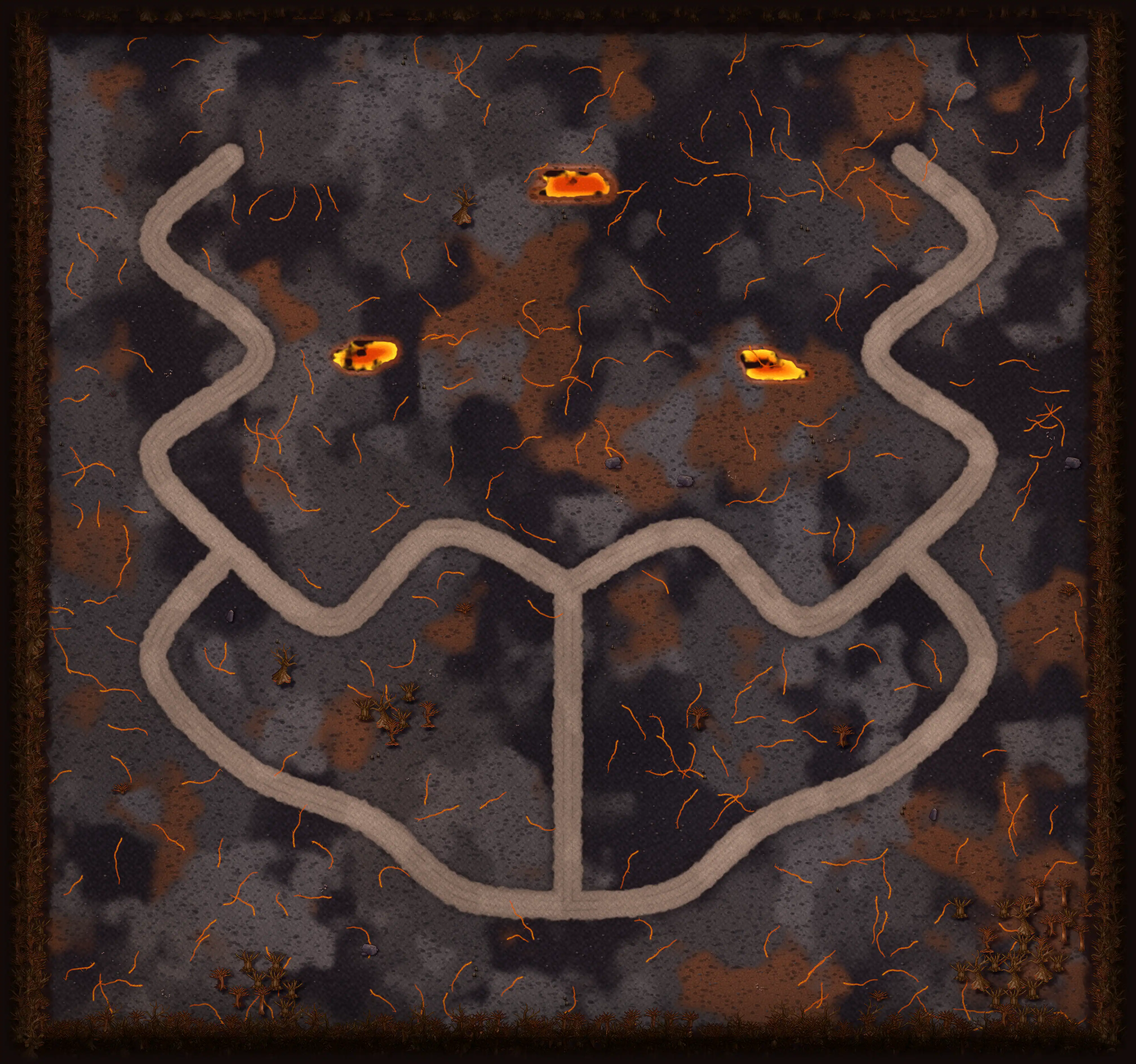
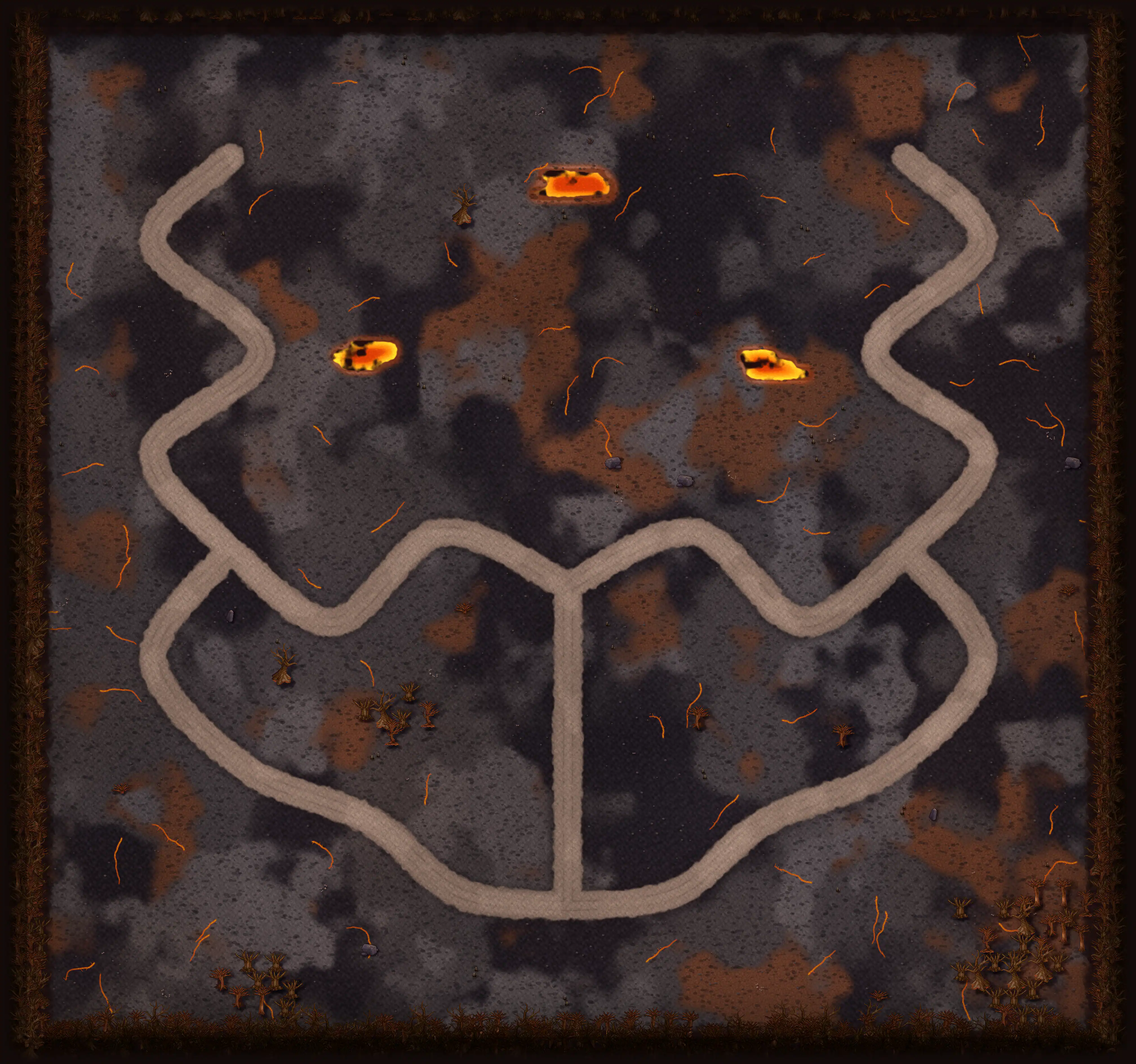
towercraft: repaint all nine maps
A new ground painter (tools/towercraftGround.ts): blended ground types per theme, a smooth worn road, lakes with
shores, small flat decor, baked shadows under woods and rocks, a grade per theme and a wooded border that fades
out instead of a black edge. Maps are WebP. The scenery the rules read is unchanged.

Claude-Session: https://claude.ai/code/session_01QEz8eWqMpSmP6F3oE6hcGQ

diff --git a/tools/towercraftGround.ts b/tools/towercraftGround.ts
@@ -88,8 +88,8 @@ class Grid {
     const [fx, fy] = [gx - i, gy - j];
     const o = j * this.gw + i;
     const d = this.data;
-    const top = d[o]! + (d[o + 1]! - d[o]!) * fx;
-    const bot = d[o + this.gw]! + (d[o + this.gw + 1]! - d[o + this.gw]!) * fx;
+    const top = d[o] + (d[o + 1] - d[o]) * fx;
+    const bot = d[o + this.gw] + (d[o + this.gw + 1] - d[o + this.gw]) * fx;
     return top + (bot - top) * fy;
   }
 }
@@ -105,18 +105,18 @@ function blur(a: Float32Array, w: number, h: number, r: number, passes = 3): voi
       tmp[k] = sum / win;
       sum += get(Math.min(n - 1, k + r + 1)) - get(Math.max(0, k - r));
     }
-    for (let k = 0; k < n; k++) set(k, tmp[k]!);
+    for (let k = 0; k < n; k++) set(k, tmp[k]);
   };
   for (let p = 0; p < passes; p++) {
     for (let y = 0; y < h; y++)
       run(
-        (k) => a[y * w + k]!,
+        (k) => a[y * w + k],
         (k, v) => void (a[y * w + k] = v),
         w,
       );
     for (let x = 0; x < w; x++)
       run(
-        (k) => a[k * w + x]!,
+        (k) => a[k * w + x],
         (k, v) => void (a[k * w + x] = v),
         h,
       );
@@ -134,7 +134,7 @@ class Grain {
     const img = readPng(path.join(GROUND_SRC, `${file}.png`));
     const lum = new Float32Array(32 * 32);
     for (let i = 0; i < 1024; i++)
-      lum[i] = 0.3 * img.data[i * 4]! + 0.59 * img.data[i * 4 + 1]! + 0.11 * img.data[i * 4 + 2]!;
+      lum[i] = 0.3 * img.data[i * 4] + 0.59 * img.data[i * 4 + 1] + 0.11 * img.data[i * 4 + 2];
     const soft = new Float32Array(1024);
     for (let y = 0; y < 32; y++)
       for (let x = 0; x < 32; x++) {
@@ -142,7 +142,7 @@ class Grain {
         for (let dy = -1; dy <= 1; dy++)
           for (let dx = -1; dx <= 1; dx++)
             s +=
-              lum[((y + dy + 32) & 31) * 32 + ((x + dx + 32) & 31)]! *
+              lum[((y + dy + 32) & 31) * 32 + ((x + dx + 32) & 31)] *
               (dx === 0 && dy === 0 ? 4 : dx === 0 || dy === 0 ? 2 : 1);
         soft[y * 32 + x] = s / 16;
       }
@@ -152,12 +152,12 @@ class Grain {
     let varr = 0;
     for (const v of soft) varr += (v - mean) ** 2;
     const sd = Math.sqrt(varr / 1024) || 1;
-    for (let i = 0; i < 1024; i++) this.px[i] = (soft[i]! - mean) / sd;
+    for (let i = 0; i < 1024; i++) this.px[i] = (soft[i] - mean) / sd;
   }
   private bil(u: number, v: number): number {
     const [x0, y0] = [Math.floor(u), Math.floor(v)];
     const [fx, fy] = [u - x0, v - y0];
-    const g = (x: number, y: number) => this.px[(y & 31) * 32 + (x & 31)]!;
+    const g = (x: number, y: number) => this.px[(y & 31) * 32 + (x & 31)];
     const a = g(x0, y0) + (g(x0 + 1, y0) - g(x0, y0)) * fx;
     const b = g(x0, y0 + 1) + (g(x0 + 1, y0 + 1) - g(x0, y0 + 1)) * fx;
     return a + (b - a) * fy;
@@ -204,17 +204,17 @@ function decor(name: string, k = 1): Image {
             const sx = Math.min(src.width - 1, Math.max(0, x0 + dx));
             const sy = Math.min(src.height - 1, Math.max(0, y0 + dy));
             const i = (sy * src.width + sx) * 4;
-            const al = src.data[i + 3]! / 255;
-            acc[0]! += src.data[i]! * al * wgt;
-            acc[1]! += src.data[i + 1]! * al * wgt;
-            acc[2]! += src.data[i + 2]! * al * wgt;
-            acc[3]! += al * wgt;
+            const al = src.data[i + 3] / 255;
+            acc[0] += src.data[i] * al * wgt;
+            acc[1] += src.data[i + 1] * al * wgt;
+            acc[2] += src.data[i + 2] * al * wgt;
+            acc[3] += al * wgt;
           }
           const o = (y * w + x) * 4;
-          const al = acc[3]!;
-          img.data[o] = al ? Math.round(acc[0]! / al) : 0;
-          img.data[o + 1] = al ? Math.round(acc[1]! / al) : 0;
-          img.data[o + 2] = al ? Math.round(acc[2]! / al) : 0;
+          const al = acc[3];
+          img.data[o] = al ? Math.round(acc[0] / al) : 0;
+          img.data[o + 1] = al ? Math.round(acc[1] / al) : 0;
+          img.data[o + 2] = al ? Math.round(acc[2] / al) : 0;
           img.data[o + 3] = Math.round(al * 255);
         }
     }
@@ -298,9 +298,9 @@ function put(c: Ctx, x: number, y: number, col: RGB, a: number): void {
   if (a <= 0 || x < 0 || y < 0 || x >= c.W || y >= c.H) return;
   const i = (y * c.W + x) * 3;
   const d = c.rgb;
-  d[i] = d[i]! + (col[0] - d[i]!) * a;
-  d[i + 1] = d[i + 1]! + (col[1] - d[i + 1]!) * a;
-  d[i + 2] = d[i + 2]! + (col[2] - d[i + 2]!) * a;
+  d[i] = d[i] + (col[0] - d[i]) * a;
+  d[i + 1] = d[i + 1] + (col[1] - d[i + 1]) * a;
+  d[i + 2] = d[i + 2] + (col[2] - d[i + 2]) * a;
 }
 /** A soft round dab (radius in px, anti-aliased edge). */
 function dab(c: Ctx, cx: number, cy: number, r: number, col: RGB, a: number, ry = r): void {
@@ -371,10 +371,10 @@ function stamp(c: Ctx, name: string, cx: number, cy: number, k: number, flip = f
       for (let x = 0; x < img.width; x++) {
         const sx = flip ? img.width - 1 - x : x;
         const i = (y * img.width + sx) * 4;
-        const al = img.data[i + 3]! / 255;
+        const al = img.data[i + 3] / 255;
         if (al < 0.05) continue;
         if (pass === 0) put(c, ox + x + 3, oy + y + 4, [0, 0, 0], al * shadowA);
-        else put(c, ox + x, oy + y, [img.data[i]!, img.data[i + 1]!, img.data[i + 2]!], al * a);
+        else put(c, ox + x, oy + y, [img.data[i], img.data[i + 1], img.data[i + 2]], al * a);
       }
 }
 
@@ -417,7 +417,7 @@ const LOOKS: Record<string, Look> = {
         [160, 150, 226],
       ];
       scatter(c, 90, offRoad(c, 1.6), (x, y) => {
-        const hue = hues[Math.floor(c.rnd() * hues.length)]!;
+        const hue = hues[Math.floor(c.rnd() * hues.length)];
         for (let k = 0; k < 6 + c.rnd() * 8; k++) {
           const [fx, fy] = [x + (c.rnd() - 0.5) * 34, y + (c.rnd() - 0.5) * 26];
           if (!offRoad(c, 1.4)(fx, fy)) continue;
@@ -760,8 +760,6 @@ export function paintField(inp: FieldInput): Image {
     return { edge: d2 - d1, id };
   };
 
-  const P = (x: number, y: number) => x; // (kept for symmetry with the sampling helpers)
-  void P;
   for (let y = 0; y < H; y++) {
     for (let x = 0; x < W; x++) {
       const o = (y * W + x) * 3;
@@ -773,8 +771,8 @@ export function paintField(inp: FieldInput): Image {
       let rim = 0;
       let grainNow = gb;
       for (let k = 0; k < look.patches.length; k++) {
-        const p = look.patches[k]!;
-        const nv = patchGrids[k]!.at(x, y);
+        const p = look.patches[k];
+        const nv = patchGrids[k].at(x, y);
         let s = smooth(p.at - p.soft, p.at + p.soft, nv);
         if (p.rim && s > 0) s *= smooth(p.rim - 1, p.rim + 1, roadDist.at(x, y));
         if (s > 0.002) {
@@ -782,7 +780,7 @@ export function paintField(inp: FieldInput): Image {
           r = mix(r, p.mat.rgb[0], s);
           g = mix(g, p.mat.rgb[1], s);
           b = mix(b, p.mat.rgb[2], s);
-          grainNow = mix(grainNow, patchGrains[k]!.at(x, y) * p.mat.amp, s);
+          grainNow = mix(grainNow, patchGrains[k].at(x, y) * p.mat.amp, s);
         }
       }
       // large soft variation of brightness and warmth: no flat colour anywhere
@@ -806,7 +804,7 @@ export function paintField(inp: FieldInput): Image {
       }
       const ra = roadAt(x, y);
       if (ra > 0.002) {
-        let k = 1 + roadGrain.at(x, y) * 0.05 + (tn - 0.5) * 0.22;
+        const k = 1 + roadGrain.at(x, y) * 0.05 + (tn - 0.5) * 0.22;
         // worn centre, ruts at both sides of it, patches of cobble
         const rut = Math.exp(-(((rd - 0.5) / 0.1) ** 2)) * smooth(0.3, 0.6, fbm(x / 70, y / 70, seed + 41, 2));
         const centre = smooth(0.7, 0.0, rd);
@@ -932,7 +930,7 @@ export function paintField(inp: FieldInput): Image {
   void scale; // objects are cut on the 32 px grid, as the pictures are
   const shadow = new Float32Array(W * H);
   const ao = new Float32Array(W * H);
-  const sprOf = (o: (typeof objs)[number]) => sheet(inp.data.sheets[o.s]!);
+  const sprOf = (o: (typeof objs)[number]) => sheet(inp.data.sheets[o.s]);
   const drawShadow = (img: Image, o: (typeof objs)[number], ox: number, oy: number, flip: boolean) => {
     const tall = Math.min(1.4, o.h / 96);
     const [dx, dy] = [Math.round(o.h * 0.2), Math.round(o.h * 0.12)];
@@ -952,24 +950,24 @@ export function paintField(inp: FieldInput): Image {
       for (let x = Math.floor(fx - rx - 2); x <= Math.ceil(fx + rx + 2); x++) {
         if (x < 0 || y < 0 || x >= W || y >= H) continue;
         const d = Math.hypot((x - fx) / rx, (y - fy) / ry);
-        if (d < 1.15) ao[y * W + x] = Math.max(ao[y * W + x]!, clamp01(1.15 - d) * 0.9);
+        if (d < 1.15) ao[y * W + x] = Math.max(ao[y * W + x], clamp01(1.15 - d) * 0.9);
       }
   };
   const flips = objs.map((_, i) => hash(i, 3, seed) < 0.5);
   objs.forEach((o, i) => {
     const img = sprOf(o);
-    drawShadow(img, o, o.px + B, o.py + B, flips[i]!);
+    drawShadow(img, o, o.px + B, o.py + B, flips[i]);
   });
   blur(shadow, W, H, 4, 2);
   blur(ao, W, H, 3, 2);
   const sh = look.shadow;
   for (let i = 0; i < W * H; i++) {
-    const s = clamp01(shadow[i]! * 1.25) * look.shadowK + clamp01(ao[i]!) * 0.38;
+    const s = clamp01(shadow[i] * 1.25) * look.shadowK + clamp01(ao[i]) * 0.38;
     if (s <= 0.002) continue;
     const k = Math.min(0.9, s);
-    rgb[i * 3] = rgb[i * 3]! * (1 - k + k * sh[0]);
-    rgb[i * 3 + 1] = rgb[i * 3 + 1]! * (1 - k + k * sh[1]);
-    rgb[i * 3 + 2] = rgb[i * 3 + 2]! * (1 - k + k * sh[2]);
+    rgb[i * 3] = rgb[i * 3] * (1 - k + k * sh[0]);
+    rgb[i * 3 + 1] = rgb[i * 3 + 1] * (1 - k + k * sh[1]);
+    rgb[i * 3 + 2] = rgb[i * 3 + 2] * (1 - k + k * sh[2]);
   }
 
   // The woods past the board's edge: a dark canopy underlay, then the board's own trees again, thicker. Cosmetic only.
@@ -988,12 +986,12 @@ export function paintField(inp: FieldInput): Image {
         const side = (flip ? 1 - x / o.w : x / o.w) - 0.5;
         const k = 1 + look.lift * (0.55 - t) * 1.6 - side * 0.1;
         const i = (py * W + px) * 3;
-        rgb[i] = Math.min(255, img.data[si]! * k);
-        rgb[i + 1] = Math.min(255, img.data[si + 1]! * k);
-        rgb[i + 2] = Math.min(255, img.data[si + 2]! * k);
+        rgb[i] = Math.min(255, img.data[si] * k);
+        rgb[i + 1] = Math.min(255, img.data[si + 1] * k);
+        rgb[i + 2] = Math.min(255, img.data[si + 2] * k);
       }
   };
-  objs.forEach((o, i) => lightSprite(sprOf(o), o, o.px + B, o.py + B, flips[i]!));
+  objs.forEach((o, i) => lightSprite(sprOf(o), o, o.px + B, o.py + B, flips[i]));
 
   // --- Grade, vignette, the dark beyond ---------------------------------------------------------------------------------
   const bg = FIELD_BG[inp.id] ?? 0x101010;
@@ -1006,9 +1004,9 @@ export function paintField(inp: FieldInput): Image {
       const bx = x - B;
       const i = (y * W + x) * 3;
       let [r, g, b]: [number, number, number] = [
-        rgb[i]! * look.tint[0],
-        rgb[i + 1]! * look.tint[1],
-        rgb[i + 2]! * look.tint[2],
+        rgb[i] * look.tint[0],
+        rgb[i + 1] * look.tint[1],
+        rgb[i + 2] * look.tint[2],
       ];
       const l = 0.3 * r + 0.59 * g + 0.11 * b;
       r = l + (r - l) * look.sat;
@@ -1079,13 +1077,13 @@ function paintBorder(c: Ctx, objs: MapData['objects'], data: MapData, flips: boo
       const [jx, jy] = [x + (rnd() - 0.5) * gap * 1.2, y + (rnd() - 0.5) * gap * 1.2];
       const d = dist(jx, jy);
       if (d < 18 || jx < -20 || jy < -20 || jx > W + 20 || jy > H + 80) continue;
-      placed.push({ x: jx, y: jy, e: trees[Math.floor(rnd() * trees.length)]! });
+      placed.push({ x: jx, y: jy, e: trees[Math.floor(rnd() * trees.length)] });
     }
   placed.sort((a, b) => a.y - b.y);
   for (const p of placed) {
     const o = p.e.o;
-    const img = sheet(data.sheets[o.s]!);
-    const flip = flips[p.e.i]! !== rnd() < 0.5;
+    const img = sheet(data.sheets[o.s]);
+    const flip = flips[p.e.i] !== rnd() < 0.5;
     const ox = Math.round(p.x - o.w / 2);
     const oy = Math.round(p.y - o.h);
     const depth = clamp01(dist(p.x, p.y) / (B + 20));
@@ -1101,9 +1099,9 @@ function paintBorder(c: Ctx, objs: MapData['objects'], data: MapData, flips: boo
         const t = y / o.h;
         const k = (1 + look.lift * (0.55 - t) * 1.6) * dim;
         const i = (py * W + px) * 3;
-        c.rgb[i] = Math.min(255, img.data[si]! * k);
-        c.rgb[i + 1] = Math.min(255, img.data[si + 1]! * k);
-        c.rgb[i + 2] = Math.min(255, img.data[si + 2]! * k);
+        c.rgb[i] = Math.min(255, img.data[si] * k);
+        c.rgb[i + 1] = Math.min(255, img.data[si + 1] * k);
+        c.rgb[i + 2] = Math.min(255, img.data[si + 2] * k);
       }
   }
 }
@@ -1112,7 +1110,7 @@ function paintBorder(c: Ctx, objs: MapData['objects'], data: MapData, flips: boo
 export async function writeField(file: string, img: Image, quality = 52): Promise<void> {
   fs.mkdirSync(path.dirname(file), { recursive: true });
   try {
-    const sharp = (await import('sharp' as string)).default as (
+    const sharp = (await import('sharp')).default as (
       input: Buffer,
       opts: { raw: { width: number; height: number; channels: 4 } },
     ) => { webp(o: object): { toFile(f: string): Promise<unknown> } };
